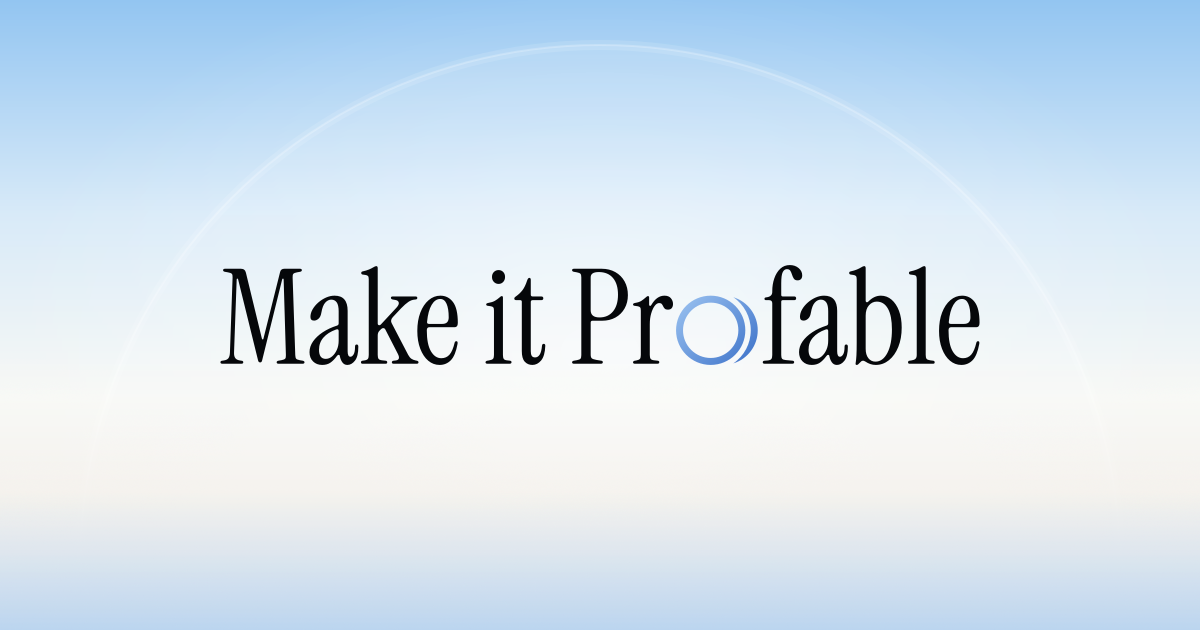
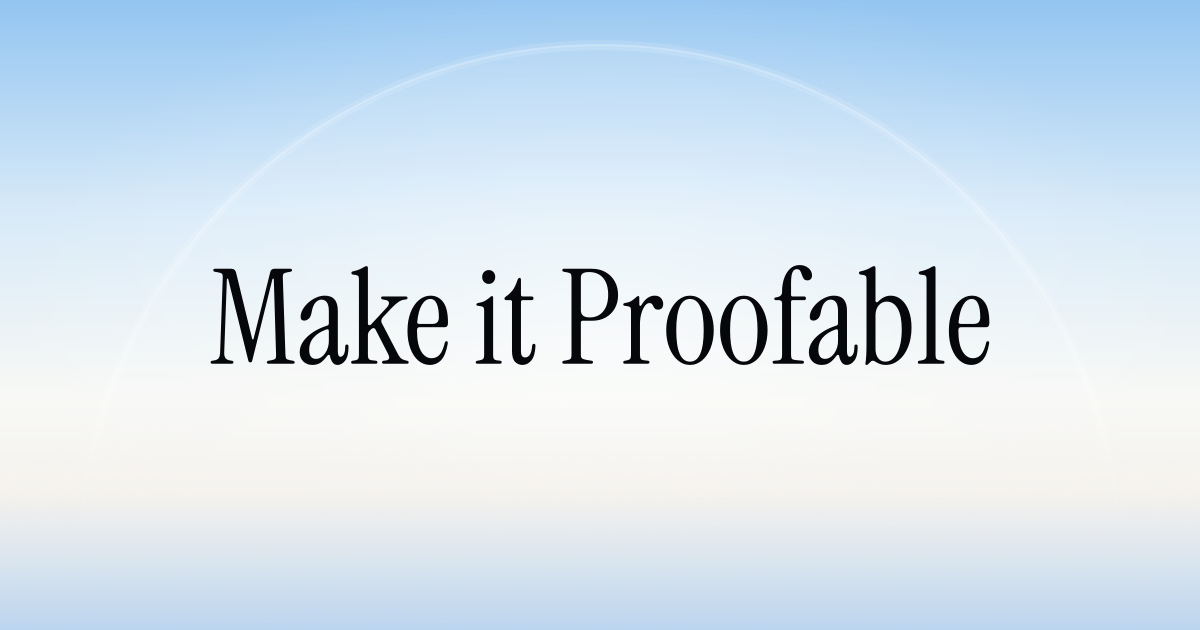
The docs describe Proofable as the portable proof layer
The company line moved from "the trust harness for AI" to "the portable proof
layer". The docs home and the repository README carry it now, in the page
description, the social titles and the opening line.

The Open Graph card is the pack share card again, byte for byte: it had drifted
to an older generation, which the brand contract catches against the pack.

Changed region(s): [[0.185, 0.4222, 0.8325, 0.6032]]

diff --git a/README.md b/README.md
@@ -1,6 +1,6 @@
 # Proofable Docs
 
-Proofable is the trust harness for AI. Give agents identity, scoped access and proof of what they did, and add verification and reusable proof to your app.
+Proofable is the portable proof layer for people, businesses and AI agents. Give agents identity, scoped access and proof of what they did, and add verification and reusable proof to your app.
 
 Published site: [docs.proofable.me](https://docs.proofable.me)
 
